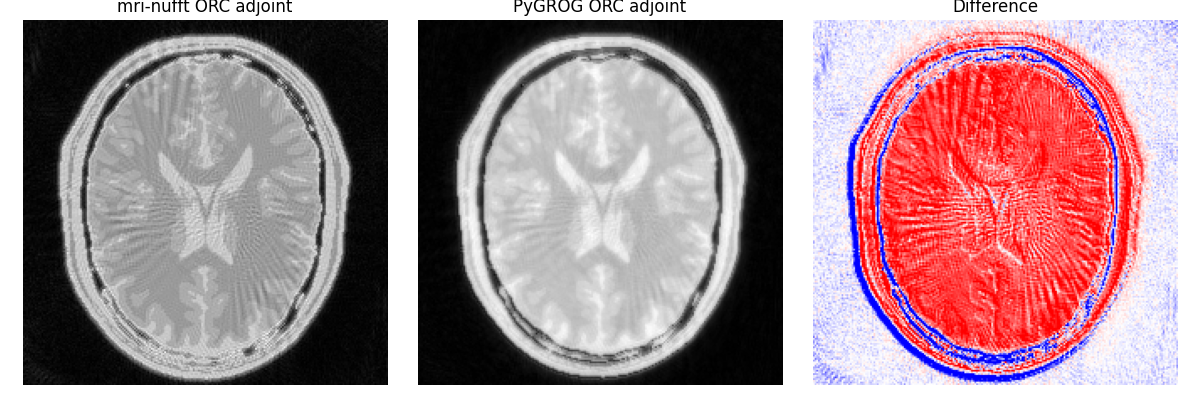
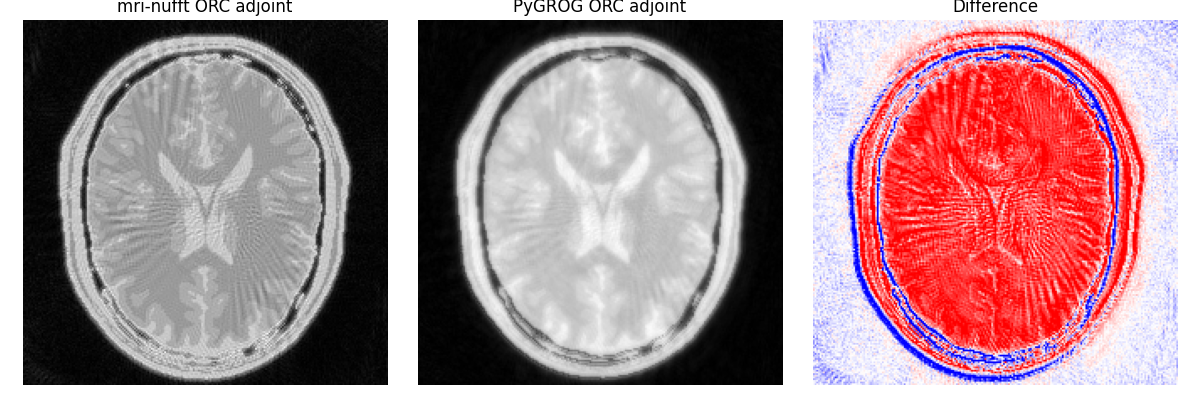
wip

diff --git a/docs/_build/html/_modules/pygrog/calib/_grog.html b/docs/_build/html/_modules/pygrog/calib/_grog.html
@@ -370,6 +370,7 @@
 
 <span class="kn">import</span><span class="w"> </span><span class="nn">gc</span>
 <span class="kn">import</span><span class="w"> </span><span class="nn">pathlib</span>
+<span class="kn">import</span><span class="w"> </span><span class="nn">warnings</span>
 
 <span class="kn">from</span><span class="w"> </span><span class="nn">types</span><span class="w"> </span><span class="kn">import</span> <span class="n">SimpleNamespace</span>
 <span class="kn">from</span><span class="w"> </span><span class="nn">numpy.typing</span><span class="w"> </span><span class="kn">import</span> <span class="n">NDArray</span>
@@ -902,12 +903,28 @@
         <span class="nb">int</span><span class="p">(</span><span class="n">np</span><span class="o">.</span><span class="n">ceil</span><span class="p">(</span><span class="n">s</span> <span class="o">*</span> <span class="n">o</span><span class="p">))</span> <span class="k">for</span> <span class="n">s</span><span class="p">,</span> <span class="n">o</span> <span class="ow">in</span> <span class="nb">zip</span><span class="p">(</span><span class="n">shape</span><span class="p">,</span> <span class="n">oversamp</span><span class="p">,</span> <span class="n">strict</span><span class="o">=</span><span class="kc">False</span><span class="p">)</span>
     <span class="p">)</span>
 
-    <span class="c1"># Rescale coords so that FOV spans [-shape/2, shape/2-1]</span>
-    <span class="n">coords_scaled</span> <span class="o">=</span> <span class="n">_rescale_coords</span><span class="p">(</span><span class="n">coords</span><span class="p">,</span> <span class="n">shape</span><span class="p">[</span><span class="o">-</span><span class="n">ndim</span><span class="p">:])</span>
+    <span class="c1"># Rescale coords so the maximum coordinate falls exactly on the last</span>
+    <span class="c1"># valid grid point in every dimension, for any oversampling factor.</span>
+    <span class="c1">#</span>
+    <span class="c1"># The oversampled grid covers image-grid coordinates</span>
+    <span class="c1">#   [origins_d, origins_d + (gs_d-1)*grid_steps_d]</span>
+    <span class="c1">#   = [-(s_d//2),  s_d - 1 - s_d//2]</span>
+    <span class="c1"># so the correct normalisation target is (s_d - 1 - s_d//2) per axis.</span>
+    <span class="c1"># Using shape/2 instead (the old code) caused edge samples to round to</span>
+    <span class="c1"># grid_shape (out of bounds) when oversamp &gt; 1, silently discarding all</span>
+    <span class="c1"># high-frequency edge samples and producing severely artefacted images</span>
+    <span class="c1"># for any non-unity oversampling factor (e.g. osf=1.5, osf=2, …).</span>
+    <span class="n">amp</span> <span class="o">=</span> <span class="p">[</span><span class="mi">2</span> <span class="o">*</span> <span class="p">(</span><span class="n">s</span> <span class="o">-</span> <span class="mi">1</span> <span class="o">-</span> <span class="n">s</span> <span class="o">//</span> <span class="mi">2</span><span class="p">)</span> <span class="k">for</span> <span class="n">s</span> <span class="ow">in</span> <span class="n">shape</span><span class="p">]</span>
+    <span class="n">coords_scaled</span> <span class="o">=</span> <span class="n">_rescale_coords</span><span class="p">(</span><span class="n">coords</span><span class="p">,</span> <span class="n">amp</span><span class="p">)</span>
 
     <span class="c1"># --- enumerate kernel offsets (numpy, simple integer table) -----------</span>
     <span class="n">offsets</span> <span class="o">=</span> <span class="n">_kernel_offsets</span><span class="p">(</span><span class="n">ndim</span><span class="p">,</span> <span class="n">kernel_width</span><span class="p">,</span> <span class="n">kernel_shape</span><span class="p">)</span>  <span class="c1"># (kw_eff, ndim)</span>
-    <span class="n">radius</span> <span class="o">=</span> <span class="mf">0.5</span> <span class="o">*</span> <span class="n">kernel_width</span>  <span class="c1"># used for KernelTable later</span>
+
+    <span class="c1"># GROG validity constraint: G^d is physically meaningful only for</span>
+    <span class="c1"># |d| &lt;= 0.5 original-grid units (half the Cartesian spacing).</span>
+    <span class="c1"># Neighbours exceeding this range are masked automatically below.</span>
+    <span class="c1"># radius is ALWAYS 0.5 so the kernel table only pre-computes valid G^d.</span>
+    <span class="n">radius</span> <span class="o">=</span> <span class="mf">0.5</span>
 
     <span class="c1"># --- convert to torch for all tensor computations ---------------------</span>
     <span class="n">coords_t</span> <span class="o">=</span> <span class="n">torch</span><span class="o">.</span><span class="n">from_numpy</span><span class="p">(</span><span class="n">coords_scaled</span><span class="p">)</span>  <span class="c1"># (..., npts, ndim) float32</span>
@@ -937,16 +954,39 @@
     <span class="n">target_coords_space</span> <span class="o">=</span> <span class="n">origins</span> <span class="o">+</span> <span class="n">target_nd</span><span class="o">.</span><span class="n">float</span><span class="p">()</span> <span class="o">*</span> <span class="n">grid_steps</span>  <span class="c1"># (..., npts, kw_eff, ndim)</span>
     <span class="n">distances</span> <span class="o">=</span> <span class="n">target_coords_space</span> <span class="o">-</span> <span class="n">coords_t</span><span class="o">.</span><span class="n">unsqueeze</span><span class="p">(</span><span class="o">-</span><span class="mi">2</span><span class="p">)</span>  <span class="c1"># (..., npts, kw_eff, ndim)</span>
 
-    <span class="c1"># In-bounds mask</span>
+    <span class="c1"># In-bounds mask (grid boundary)</span>
     <span class="n">grid_shape_t</span> <span class="o">=</span> <span class="n">torch</span><span class="o">.</span><span class="n">tensor</span><span class="p">(</span><span class="nb">list</span><span class="p">(</span><span class="n">grid_shape</span><span class="p">),</span> <span class="n">dtype</span><span class="o">=</span><span class="n">torch</span><span class="o">.</span><span class="n">int32</span><span class="p">)</span>
     <span class="n">in_bounds</span> <span class="o">=</span> <span class="p">((</span><span class="n">target_nd</span> <span class="o">&gt;=</span> <span class="mi">0</span><span class="p">)</span> <span class="o">&amp;</span> <span class="p">(</span><span class="n">target_nd</span> <span class="o">&lt;</span> <span class="n">grid_shape_t</span><span class="p">))</span><span class="o">.</span><span class="n">all</span><span class="p">(</span><span class="n">dim</span><span class="o">=-</span><span class="mi">1</span><span class="p">)</span>  <span class="c1"># (..., npts, kw_eff)</span>
+
+    <span class="c1"># GROG validity mask: each per-component shift must be within ±0.5</span>
+    <span class="c1"># original-grid units so that G^d stays in the physically trained range.</span>
+    <span class="c1"># This turns kw into a soft parameter — candidates outside the valid</span>
+    <span class="c1"># radius are automatically discarded regardless of how large kw is.</span>
+    <span class="c1"># Consequence: for low osf the effective neighbourhood shrinks (e.g.</span>
+    <span class="c1"># osf=1.25 → only offset-0 survives; osf=2 → offsets ±1 survive ~50%).</span>
+    <span class="n">grog_valid</span> <span class="o">=</span> <span class="p">(</span><span class="n">distances</span><span class="o">.</span><span class="n">abs</span><span class="p">()</span> <span class="o">&lt;=</span> <span class="mf">0.5</span><span class="p">)</span><span class="o">.</span><span class="n">all</span><span class="p">(</span><span class="n">dim</span><span class="o">=-</span><span class="mi">1</span><span class="p">)</span>  <span class="c1"># (..., npts, kw_eff)</span>
+    <span class="n">in_bounds</span> <span class="o">=</span> <span class="n">in_bounds</span> <span class="o">&amp;</span> <span class="n">grog_valid</span>
+
+    <span class="c1"># Warn if the chosen kw enumerates many candidates that will mostly be</span>
+    <span class="c1"># discarded (heuristic: half-width offset * grid_steps &gt; 0.5).</span>
+    <span class="n">max_half_shift</span> <span class="o">=</span> <span class="nb">float</span><span class="p">((</span><span class="n">kernel_width</span> <span class="o">//</span> <span class="mi">2</span><span class="p">)</span> <span class="o">*</span> <span class="n">grid_steps</span><span class="o">.</span><span class="n">max</span><span class="p">())</span>
+    <span class="k">if</span> <span class="n">kernel_width</span> <span class="o">&gt;</span> <span class="mi">1</span> <span class="ow">and</span> <span class="n">max_half_shift</span> <span class="o">&gt;</span> <span class="mf">0.5</span> <span class="o">+</span> <span class="mf">1e-4</span><span class="p">:</span>
+        <span class="n">eff_kw</span> <span class="o">=</span> <span class="nb">max</span><span class="p">(</span><span class="mi">1</span><span class="p">,</span> <span class="nb">int</span><span class="p">(</span><span class="mf">0.5</span> <span class="o">/</span> <span class="nb">float</span><span class="p">(</span><span class="n">grid_steps</span><span class="o">.</span><span class="n">max</span><span class="p">())))</span>
+        <span class="n">warnings</span><span class="o">.</span><span class="n">warn</span><span class="p">(</span>
+            <span class="sa">f</span><span class="s2">&quot;kernel_width=</span><span class="si">{</span><span class="n">kernel_width</span><span class="si">}</span><span class="s2"> with oversamp=</span><span class="si">{</span><span class="n">oversamp</span><span class="si">}</span><span class="s2"> gives max GROG shift &quot;</span>
+            <span class="sa">f</span><span class="s2">&quot;</span><span class="si">{</span><span class="n">max_half_shift</span><span class="si">:</span><span class="s2">.3f</span><span class="si">}</span><span class="s2"> &gt; 0.5 for the ±1 neighbours; those will be masked. &quot;</span>
+            <span class="sa">f</span><span class="s2">&quot;Effective neighbourhood ~ </span><span class="si">{</span><span class="mi">2</span><span class="o">*</span><span class="n">eff_kw</span><span class="o">+</span><span class="mi">1</span><span class="si">}</span><span class="s2"> oversampled-grid points. &quot;</span>
+            <span class="sa">f</span><span class="s2">&quot;To use all kw=</span><span class="si">{</span><span class="n">kernel_width</span><span class="si">}</span><span class="s2"> neighbours without masking, use &quot;</span>
+            <span class="sa">f</span><span class="s2">&quot;oversamp&gt;=</span><span class="si">{</span><span class="nb">int</span><span class="p">(</span><span class="n">np</span><span class="o">.</span><span class="n">ceil</span><span class="p">(</span><span class="mi">2</span><span class="o">*</span><span class="p">(</span><span class="n">kernel_width</span><span class="o">//</span><span class="mi">2</span><span class="p">)))</span><span class="si">}</span><span class="s2">.&quot;</span><span class="p">,</span>
+            <span class="n">stacklevel</span><span class="o">=</span><span class="mi">3</span><span class="p">,</span>
+        <span class="p">)</span>
 
     <span class="c1"># Flat index: sum_d( idx_d * stride_d )</span>
     <span class="n">strides</span> <span class="o">=</span> <span class="n">torch</span><span class="o">.</span><span class="n">tensor</span><span class="p">(</span>
         <span class="p">[</span><span class="nb">int</span><span class="p">(</span><span class="n">np</span><span class="o">.</span><span class="n">prod</span><span class="p">(</span><span class="n">grid_shape</span><span class="p">[</span><span class="n">d</span> <span class="o">+</span> <span class="mi">1</span> <span class="p">:]))</span> <span class="k">for</span> <span class="n">d</span> <span class="ow">in</span> <span class="nb">range</span><span class="p">(</span><span class="n">ndim</span><span class="p">)],</span> <span class="n">dtype</span><span class="o">=</span><span class="n">torch</span><span class="o">.</span><span class="n">int64</span>
     <span class="p">)</span>
     <span class="n">target_flat</span> <span class="o">=</span> <span class="p">(</span><span class="n">target_nd</span><span class="o">.</span><span class="n">to</span><span class="p">(</span><span class="n">torch</span><span class="o">.</span><span class="n">int64</span><span class="p">)</span> <span class="o">*</span> <span class="n">strides</span><span class="p">)</span><span class="o">.</span><span class="n">sum</span><span class="p">(</span><span class="n">dim</span><span class="o">=-</span><span class="mi">1</span><span class="p">)</span>  <span class="c1"># (..., npts, kw_eff)</span>
-    <span class="n">target_flat</span><span class="o">.</span><span class="n">masked_fill_</span><span class="p">(</span><span class="o">~</span><span class="n">in_bounds</span><span class="p">,</span> <span class="o">-</span><span class="mi">1</span><span class="p">)</span>  <span class="c1"># sentinel for out-of-bounds</span>
+    <span class="n">target_flat</span><span class="o">.</span><span class="n">masked_fill_</span><span class="p">(</span><span class="o">~</span><span class="n">in_bounds</span><span class="p">,</span> <span class="o">-</span><span class="mi">1</span><span class="p">)</span>  <span class="c1"># sentinel for out-of-bounds / GROG-invalid</span>
 
     <span class="c1"># --- EGROG distance-based density compensation -------------------------</span>
     <span class="c1"># For each (source i, target t) pair compute a Gaussian kernel value</span>

diff --git a/docs/_build/html/sg_execution_times.html b/docs/_build/html/sg_execution_times.html
@@ -424,7 +424,7 @@
                   
   <section id="computation-times">
 <span id="sphx-glr-sg-execution-times"></span><h1>Computation times<a class="headerlink" href="#computation-times" title="Link to this heading">#</a></h1>
-<p><strong>00:48.651</strong> total execution time for 3 files <strong>from all galleries</strong>:</p>
+<p><strong>00:50.970</strong> total execution time for 3 files <strong>from all galleries</strong>:</p>
 <div class="docutils container">
 <style scoped>
 <link href="https://cdnjs.cloudflare.com/ajax/libs/twitter-bootstrap/5.3.0/css/bootstrap.min.css" rel="stylesheet" />
@@ -446,15 +446,15 @@ $(document).ready( function () {
 </thead>
 <tbody>
 <tr class="row-even"><td><p><a class="reference internal" href="generated/autoexamples/example_gadgets.html#sphx-glr-generated-autoexamples-example-gadgets-py"><span class="std std-ref">Gadgets with mri-nufft Data: Subspace and B0 ORC</span></a> (<code class="docutils literal notranslate"><span class="pre">../examples/example_gadgets.py</span></code>)</p></td>
-<td><p>00:44.958</p></td>
+<td><p>00:46.609</p></td>
 <td><p>0.0</p></td>
 </tr>
 <tr class="row-odd"><td><p><a class="reference internal" href="generated/autoexamples/example_basic_usage.html#sphx-glr-generated-autoexamples-example-basic-usage-py"><span class="std std-ref">Basic Usage: mri-nufft Baseline vs PyGROG</span></a> (<code class="docutils literal notranslate"><span class="pre">../examples/example_basic_usage.py</span></code>)</p></td>
-<td><p>00:02.322</p></td>
+<td><p>00:02.705</p></td>
 <td><p>0.0</p></td>
 </tr>
 <tr class="row-even"><td><p><a class="reference internal" href="generated/autoexamples/example_interop.html#sphx-glr-generated-autoexamples-example-interop-py"><span class="std std-ref">Interoperability with mrpro, sigpy and deepinverse</span></a> (<code class="docutils literal notranslate"><span class="pre">../examples/example_interop.py</span></code>)</p></td>
-<td><p>00:01.371</p></td>
+<td><p>00:01.656</p></td>
 <td><p>0.0</p></td>
 </tr>
 </tbody>

diff --git a/src/pygrog/calib/_grog.py b/src/pygrog/calib/_grog.py
@@ -11,6 +11,7 @@ __all__ = ["GrogInterpolator", "GrogPlan"]
 
 import gc
 import pathlib
+import warnings
 
 from types import SimpleNamespace
 from numpy.typing import NDArray
@@ -513,12 +514,28 @@ def _create_plan(shape, coords, oversamp, kernel_width, kernel_shape, time_map):
         int(np.ceil(s * o)) for s, o in zip(shape, oversamp, strict=False)
     )
 
-    # Rescale coords so that FOV spans [-shape/2, shape/2-1]
-    coords_scaled = _rescale_coords(coords, shape[-ndim:])
+    # Rescale coords so the maximum coordinate falls exactly on the last
+    # valid grid point in every dimension, for any oversampling factor.
+    #
+    # The oversampled grid covers image-grid coordinates
+    #   [origins_d, origins_d + (gs_d-1)*grid_steps_d]
+    #   = [-(s_d//2),  s_d - 1 - s_d//2]
+    # so the correct normalisation target is (s_d - 1 - s_d//2) per axis.
+    # Using shape/2 instead (the old code) caused edge samples to round to
+    # grid_shape (out of bounds) when oversamp > 1, silently discarding all
+    # high-frequency edge samples and producing severely artefacted images
+    # for any non-unity oversampling factor (e.g. osf=1.5, osf=2, …).
+    amp = [2 * (s - 1 - s // 2) for s in shape]
+    coords_scaled = _rescale_coords(coords, amp)
 
     # --- enumerate kernel offsets (numpy, simple integer table) -----------
     offsets = _kernel_offsets(ndim, kernel_width, kernel_shape)  # (kw_eff, ndim)
-    radius = 0.5 * kernel_width  # used for KernelTable later
+
+    # GROG validity constraint: G^d is physically meaningful only for
+    # |d| <= 0.5 original-grid units (half the Cartesian spacing).
+    # Neighbours exceeding this range are masked automatically below.
+    # radius is ALWAYS 0.5 so the kernel table only pre-computes valid G^d.
+    radius = 0.5
 
     # --- convert to torch for all tensor computations ---------------------
     coords_t = torch.from_numpy(coords_scaled)  # (..., npts, ndim) float32
@@ -548,16 +565,39 @@ def _create_plan(shape, coords, oversamp, kernel_width, kernel_shape, time_map):
     target_coords_space = origins + target_nd.float() * grid_steps  # (..., npts, kw_eff, ndim)
     distances = target_coords_space - coords_t.unsqueeze(-2)  # (..., npts, kw_eff, ndim)
 
-    # In-bounds mask
+    # In-bounds mask (grid boundary)
     grid_shape_t = torch.tensor(list(grid_shape), dtype=torch.int32)
     in_bounds = ((target_nd >= 0) & (target_nd < grid_shape_t)).all(dim=-1)  # (..., npts, kw_eff)
+
+    # GROG validity mask: each per-component shift must be within ±0.5
+    # original-grid units so that G^d stays in the physically trained range.
+    # This turns kw into a soft parameter — candidates outside the valid
+    # radius are automatically discarded regardless of how large kw is.
+    # Consequence: for low osf the effective neighbourhood shrinks (e.g.
+    # osf=1.25 → only offset-0 survives; osf=2 → offsets ±1 survive ~50%).
+    grog_valid = (distances.abs() <= 0.5).all(dim=-1)  # (..., npts, kw_eff)
+    in_bounds = in_bounds & grog_valid
+
+    # Warn if the chosen kw enumerates many candidates that will mostly be
+    # discarded (heuristic: half-width offset * grid_steps > 0.5).
+    max_half_shift = float((kernel_width // 2) * grid_steps.max())
+    if kernel_width > 1 and max_half_shift > 0.5 + 1e-4:
+        eff_kw = max(1, int(0.5 / float(grid_steps.max())))
+        warnings.warn(
+            f"kernel_width={kernel_width} with oversamp={oversamp} gives max GROG shift "
+            f"{max_half_shift:.3f} > 0.5 for the ±1 neighbours; those will be masked. "
+            f"Effective neighbourhood ~ {2*eff_kw+1} oversampled-grid points. "
+            f"To use all kw={kernel_width} neighbours without masking, use "
+            f"oversamp>={int(np.ceil(2*(kernel_width//2)))}.",
+            stacklevel=3,
+        )
 
     # Flat index: sum_d( idx_d * stride_d )
     strides = torch.tensor(
         [int(np.prod(grid_shape[d + 1 :])) for d in range(ndim)], dtype=torch.int64
     )
     target_flat = (target_nd.to(torch.int64) * strides).sum(dim=-1)  # (..., npts, kw_eff)
-    target_flat.masked_fill_(~in_bounds, -1)  # sentinel for out-of-bounds
+    target_flat.masked_fill_(~in_bounds, -1)  # sentinel for out-of-bounds / GROG-invalid
 
     # --- EGROG distance-based density compensation -------------------------
     # For each (source i, target t) pair compute a Gaussian kernel value

diff --git a/tests/test_grog_interpolator.py b/tests/test_grog_interpolator.py
@@ -17,7 +17,7 @@ def _make_grog(rng, shape, n_coils, n_views, n_readout, image_shape=None, **kw):
         image_shape = shape
     coords = rng.standard_normal((n_views, n_readout, 2)).astype(np.float32)
     grog = GrogInterpolator(
-        shape=shape, coords=coords, kernel_width=2, image_shape=image_shape, **kw
+        shape=shape, coords=coords, kernel_width=2, oversamp=2.0, image_shape=image_shape, **kw
     )
     calib = (
         rng.standard_normal((n_coils, *shape))
@@ -50,6 +50,7 @@ def test_ret_image_matches_sparsefft_forward_rss():
         shape=shape,
         coords=coords,
         kernel_width=2,
+        oversamp=2.0,
         image_shape=image_shape,
     )
 
@@ -99,6 +100,7 @@ def test_interpolate_returns_sparse_neighbor_expansion_not_dense_grid():
         coords=coords,
         kernel_width=2,
         kernel_shape="square",
+        oversamp=2.0,
         image_shape=shape,
     )
 

diff --git a/docs/_build/html/_downloads/1a4bc95c8757f1e73355a1701a841ceb/example_basic_usage.py b/docs/_build/html/_downloads/1a4bc95c8757f1e73355a1701a841ceb/example_basic_usage.py
@@ -132,7 +132,7 @@ calib_cart = calib_cart_full[
 # mri-nufft coordinates are in [-0.5, 0.5): scale to PyGROG grid units.
 coords = (samples * np.asarray(shape, dtype=np.float32)).astype(np.float32)
 
-grog = GrogInterpolator(shape=shape, coords=coords, kernel_width=3, oversamp=1.5, image_shape=shape)
+grog = GrogInterpolator(shape=shape, coords=coords, kernel_width=2, oversamp=1.25, image_shape=shape)
 grog.calc_interp_table(calib_cart, lamda=0.01, precision=1)
 
 # GrogInterpolator expects (n_coils, n_shots, n_readout).

diff --git a/examples/example_basic_usage.py b/examples/example_basic_usage.py
@@ -132,7 +132,7 @@ calib_cart = calib_cart_full[
 # mri-nufft coordinates are in [-0.5, 0.5): scale to PyGROG grid units.
 coords = (samples * np.asarray(shape, dtype=np.float32)).astype(np.float32)
 
-grog = GrogInterpolator(shape=shape, coords=coords, kernel_width=3, oversamp=1.5, image_shape=shape)
+grog = GrogInterpolator(shape=shape, coords=coords, kernel_width=2, oversamp=1.25, image_shape=shape)
 grog.calc_interp_table(calib_cart, lamda=0.01, precision=1)
 
 # GrogInterpolator expects (n_coils, n_shots, n_readout).

diff --git a/docs/_build/html/_sources/sg_execution_times.rst b/docs/_build/html/_sources/sg_execution_times.rst
@@ -6,7 +6,7 @@
 
 Computation times
 =================
-**00:48.651** total execution time for 3 files **from all galleries**:
+**00:50.970** total execution time for 3 files **from all galleries**:
 
 .. container::
 
@@ -33,11 +33,11 @@ Computation times
      - Time
      - Mem (MB)
    * - :ref:`sphx_glr_generated_autoexamples_example_gadgets.py` (``../examples/example_gadgets.py``)
-     - 00:44.958
+     - 00:46.609
      - 0.0
    * - :ref:`sphx_glr_generated_autoexamples_example_basic_usage.py` (``../examples/example_basic_usage.py``)
-     - 00:02.322
+     - 00:02.705
      - 0.0
    * - :ref:`sphx_glr_generated_autoexamples_example_interop.py` (``../examples/example_interop.py``)
-     - 00:01.371
+     - 00:01.656
      - 0.0

diff --git a/docs/sg_execution_times.rst b/docs/sg_execution_times.rst
@@ -6,7 +6,7 @@
 
 Computation times
 =================
-**00:48.651** total execution time for 3 files **from all galleries**:
+**00:50.970** total execution time for 3 files **from all galleries**:
 
 .. container::
 
@@ -33,11 +33,11 @@ Computation times
      - Time
      - Mem (MB)
    * - :ref:`sphx_glr_generated_autoexamples_example_gadgets.py` (``../examples/example_gadgets.py``)
-     - 00:44.958
+     - 00:46.609
      - 0.0
    * - :ref:`sphx_glr_generated_autoexamples_example_basic_usage.py` (``../examples/example_basic_usage.py``)
-     - 00:02.322
+     - 00:02.705
      - 0.0
    * - :ref:`sphx_glr_generated_autoexamples_example_interop.py` (``../examples/example_interop.py``)
-     - 00:01.371
+     - 00:01.656
      - 0.0